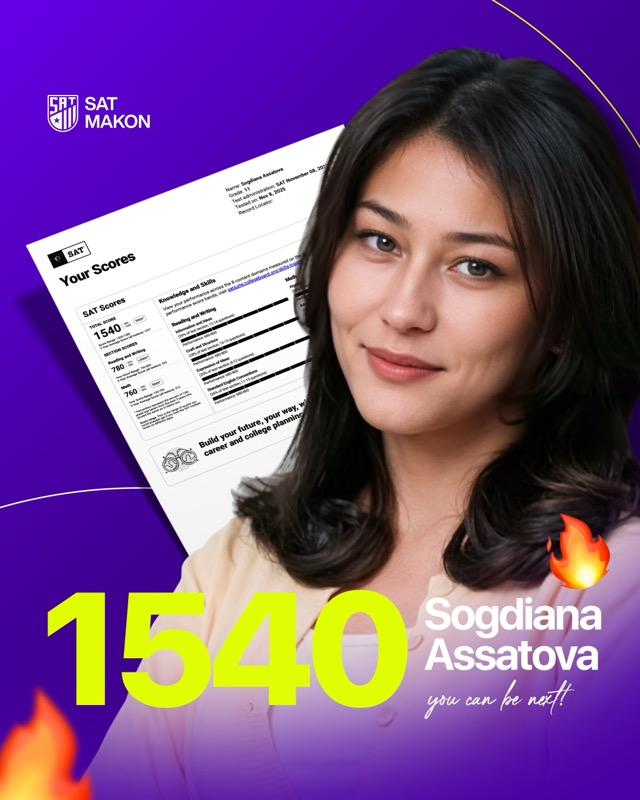
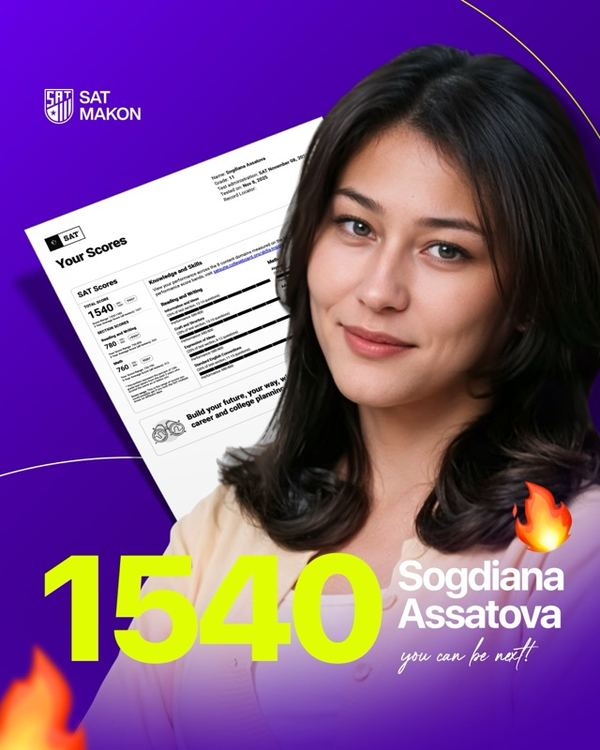
Mobile perf: compress student images 46% + preload hints
- All 10 student photos resized to max 600px wide at JPEG q78 progressive
- Total image weight: 1060KB -> 575KB
- <link rel=preload> for all 10 images — browser fetches in parallel before body parses
- <img> tags get width/height hints + decoding='async'
- Should fix slow second-row load + animation stutter on mobile

diff --git a/index.html b/index.html
@@ -8,6 +8,16 @@
   <link rel="preconnect" href="https://fonts.gstatic.com" crossorigin/>
   <link href="https://fonts.googleapis.com/css2?family=Plus+Jakarta+Sans:wght@400;500;600;700;800&family=Inter:wght@400;500;600;700;800;900&display=swap" rel="stylesheet"/>
   <link rel="icon" href="satmakon-shield.png"/>
+  <link rel="preload" as="image" href="students/1-sogdiana.png"/>
+  <link rel="preload" as="image" href="students/2-javohir.png"/>
+  <link rel="preload" as="image" href="students/3-maral.png"/>
+  <link rel="preload" as="image" href="students/4-madiyar.png"/>
+  <link rel="preload" as="image" href="students/5-aiym.png"/>
+  <link rel="preload" as="image" href="students/6-samira.png"/>
+  <link rel="preload" as="image" href="students/7-shirinabonu.png"/>
+  <link rel="preload" as="image" href="students/8-jaleel.png"/>
+  <link rel="preload" as="image" href="students/9-ayanat.png"/>
+  <link rel="preload" as="image" href="students/10-shohjahon.png"/>
   <style>
 /* SAT Makon — Design System Tokens
    Colors, typography, spacing, radii, shadows
@@ -2163,7 +2173,10 @@ function Students({
   }, /*#__PURE__*/React.createElement("img", {
     src: src,
     alt: "",
-    draggable: "false"
+    draggable: "false",
+    width: "600",
+    height: "750",
+    decoding: "async"
   })))));
   return /*#__PURE__*/React.createElement("section", null, /*#__PURE__*/React.createElement("div", {
     className: "container"
